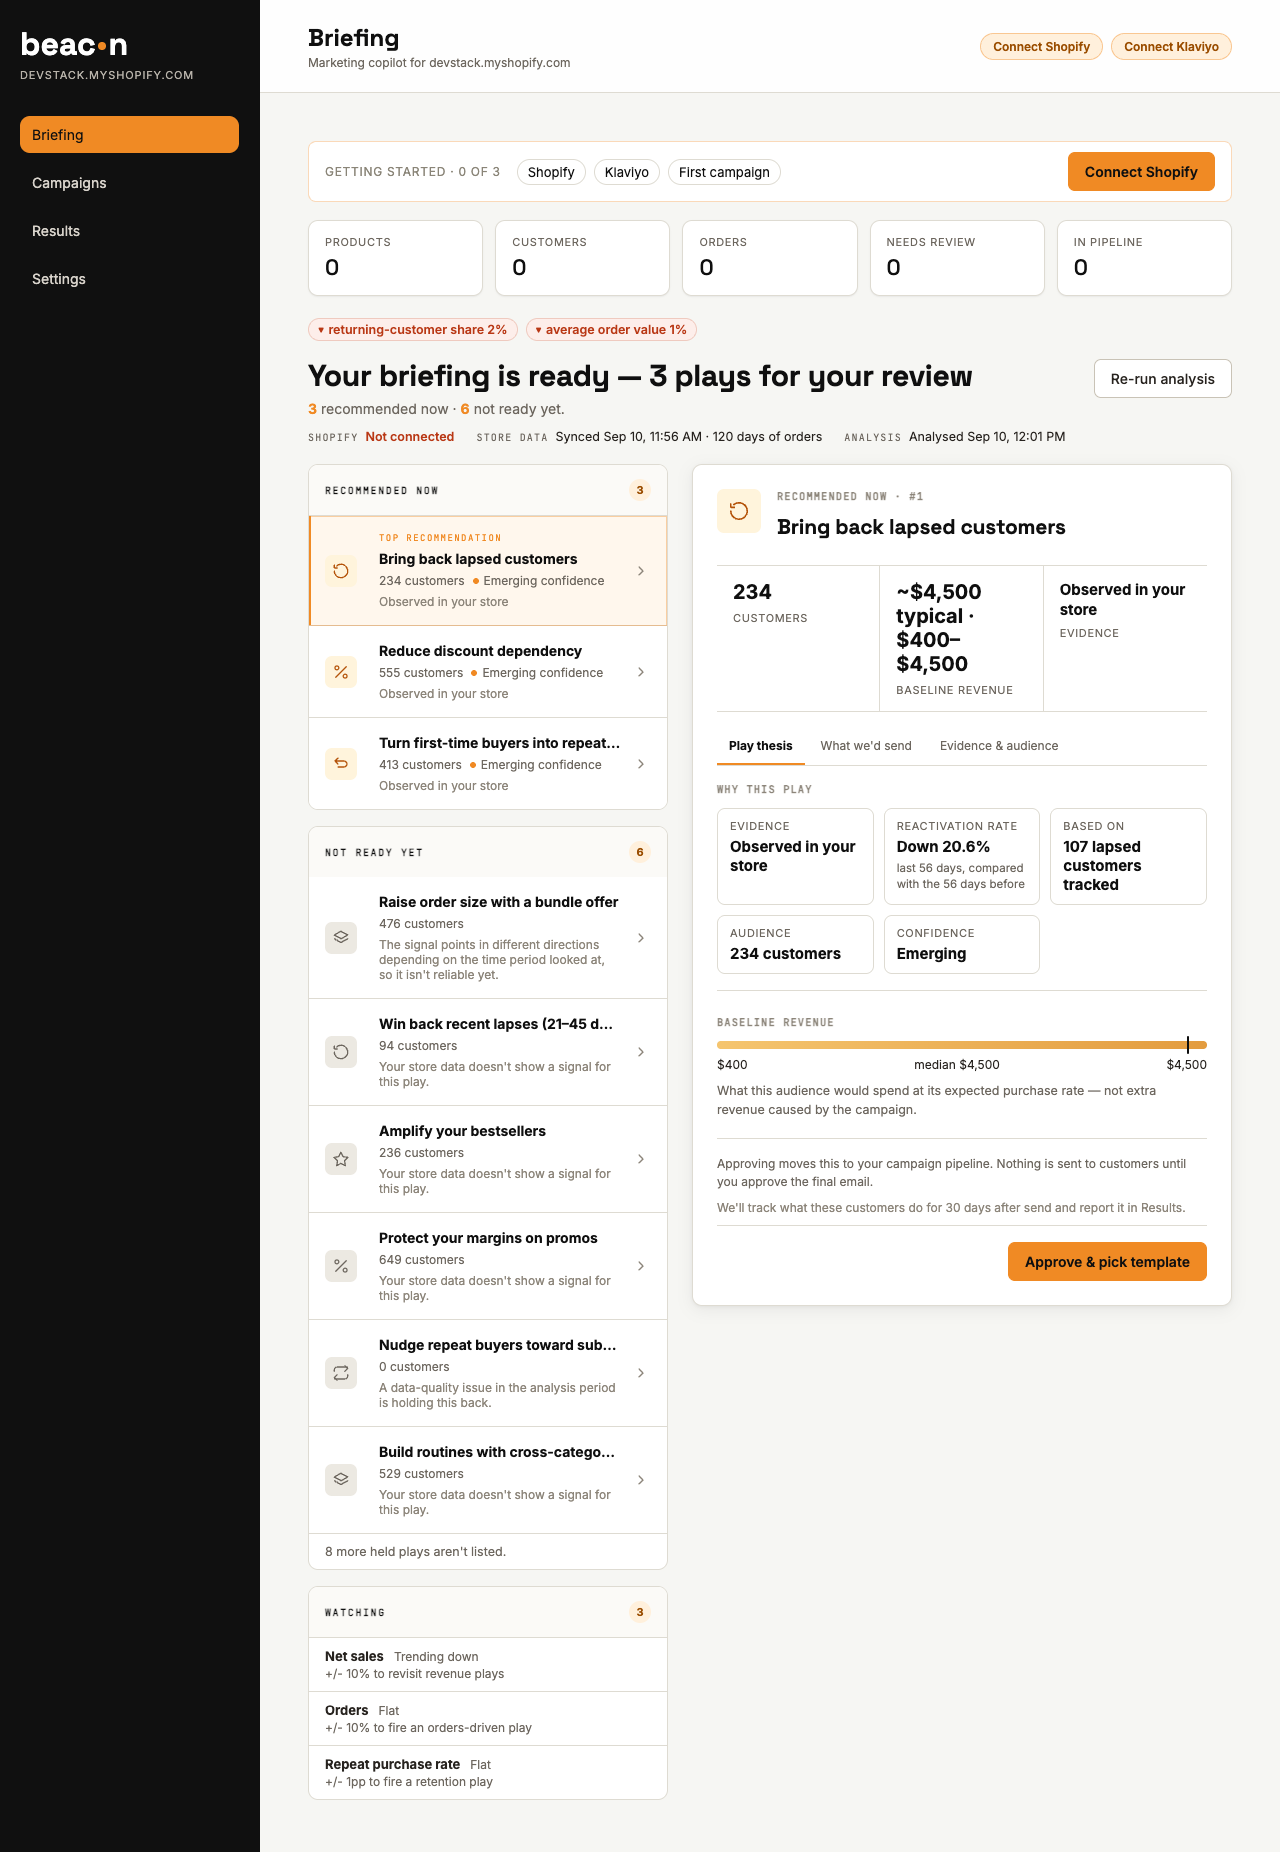
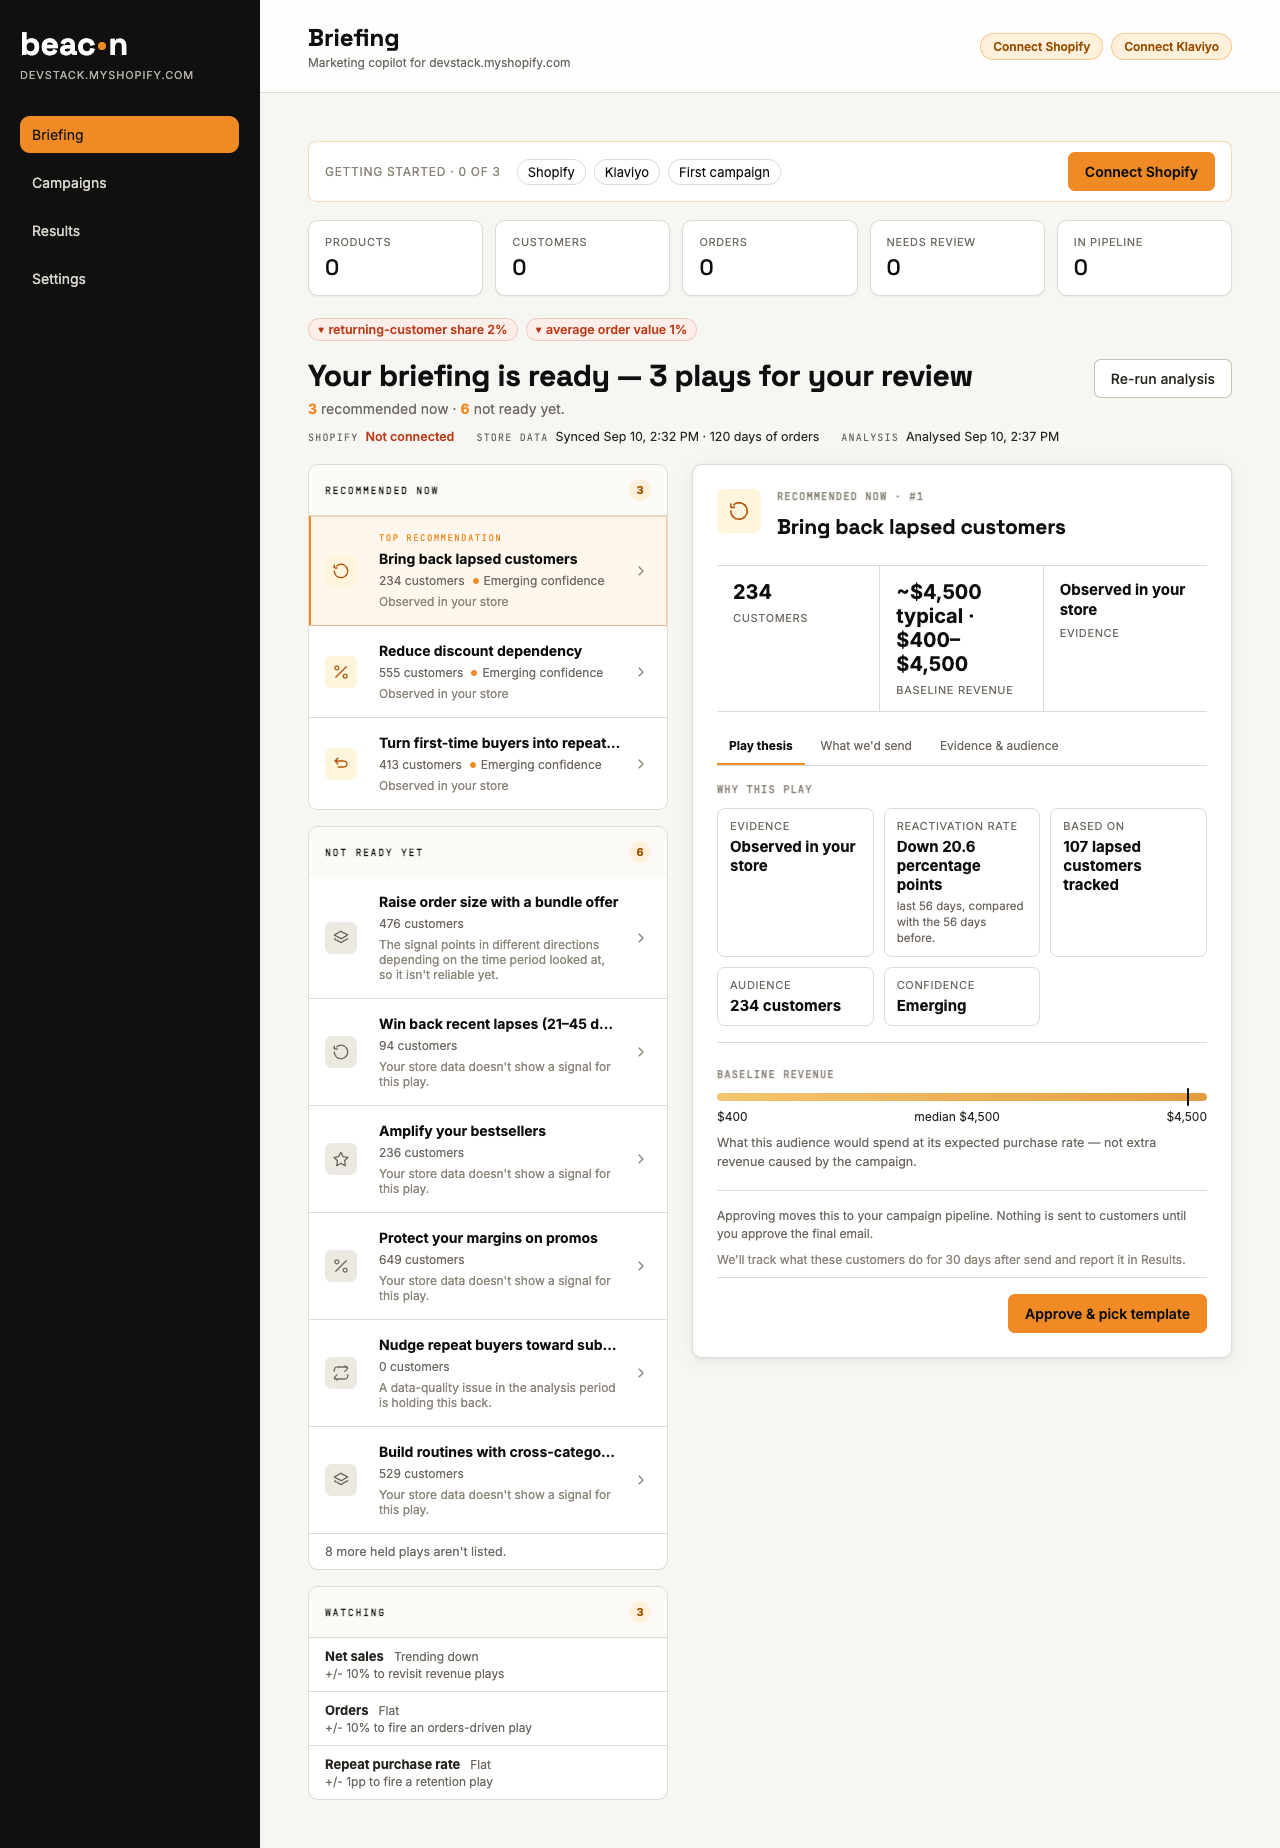
fix(briefing): report each measured change in the unit its builder produces
Two-proportion builders emit recent_rate - prior_rate, so a fall from the
reactivation rate reads "Down 20.6 percentage points", not "Down 20.6%". The
discount builder's rate is the share of revenue from heavy-discount customers
(a rise means more dependency), not a full-price purchase rate. The AOV-bundle
card carries the Welch difference in mean order value, in currency, not a
threshold-crossing rate. Aligned-window metrics stay relative percent. Any
metric without an established unit shows no change.

diff --git a/api/src/services/engineRunPresenter.js b/api/src/services/engineRunPresenter.js
@@ -297,8 +297,6 @@ function evidenceSourceDisplay(source) {
 const MEASUREMENT_METRIC_LABELS = {
   reactivation_rate: "Reactivation rate",
   first_to_second_conversion_rate: "Second-purchase rate",
-  discount_dependency_hygiene_full_price_conversion_rate: "Full-price purchase rate",
-  aov_threshold_crossing_conversion_rate: "Spend-threshold crossing rate",
   replenishment_conversion_rate: "Reorder rate",
   returning_customer_share: "Returning-customer share",
   repeat_rate_within_window: "Repeat purchase rate",
@@ -349,24 +347,59 @@ const SAMPLE_UNITS = {
   repeat_rate_within_window: "customers who ordered in the period",
 };
 
-function observedChange(measurement) {
-  const effect = Number(measurement?.observed_effect);
-  if (measurement?.observed_effect == null || !Number.isFinite(effect)) return null;
-  const pct = Math.round(effect * 1000) / 10;
+// What `observed_effect` IS, per metric. The builders do not share a unit, so
+// none is applied universally (engine/src/measurement_observed.py and the
+// builders in measurement_builder.py):
+//   - two-proportion builders emit recent_rate − prior_rate: a difference in
+//     PERCENTAGE POINTS, not a percent change. -0.2056 is "down 20.6 points".
+//   - the discount builder's rate is k/n with k = revenue from the heavy-discount
+//     cohort and n = all revenue: the SHARE OF REVENUE from heavy-discount
+//     customers. A rise means more dependency, not more full-price buying.
+//   - the AOV-bundle builder puts its Welch result on the card: the difference
+//     in mean order value, in CURRENCY. The metric name says threshold crossing;
+//     the number is not that.
+//   - the directional builder emits aligned[w].delta: a RELATIVE change.
+// A metric not listed shows no change at all rather than one in a guessed unit.
+const OBSERVED_CHANGE = {
+  reactivation_rate: { label: "Reactivation rate", unit: "percentage_points" },
+  replenishment_conversion_rate: { label: "Reorder rate", unit: "percentage_points" },
+  first_to_second_conversion_rate: { label: "Second-purchase rate", unit: "percentage_points" },
+  discount_dependency_hygiene_full_price_conversion_rate: {
+    label: "Share of revenue from heavy-discount customers",
+    unit: "percentage_points",
+    note: "A rise means more of your revenue is coming from customers who mostly buy on discount.",
+  },
+  aov_threshold_crossing_conversion_rate: { label: "Average order value", unit: "currency" },
+  returning_customer_share: { label: "Returning-customer share", unit: "percent" },
+  repeat_rate_within_window: { label: "Repeat purchase rate", unit: "percent" },
+};
+
+function observedChange(measurement, currency = null) {
+  if (measurement?.observed_effect == null) return null;
+  const effect = Number(measurement.observed_effect);
+  const spec = OBSERVED_CHANGE[measurement.metric];
+  if (!spec || !Number.isFinite(effect)) return null;
+  const value = spec.unit === "currency"
+    ? Math.round(effect * 100) / 100
+    // Points and percent are both stored as fractions (0.206 → 20.6).
+    : Math.round(effect * 1000) / 10;
   return {
-    metric: measurement.metric || null,
-    metric_label: metricLabel(measurement.metric),
-    change_pct: pct,
-    direction: pct > 0 ? "up" : pct < 0 ? "down" : "flat",
+    metric: measurement.metric,
+    metric_label: spec.label,
+    unit: spec.unit,
+    value,
+    currency: spec.unit === "currency" ? currency : null,
+    direction: value > 0 ? "up" : value < 0 ? "down" : "flat",
+    note: spec.note || null,
     window: windowDisplay(measurement.primary_window),
   };
 }
 
 function sampleFor(measurement) {
-  // No observed change means the builder filled `n` with the audience size,
+  // No observed effect means the builder filled `n` with the audience size,
   // which is already shown as the audience. Repeating it as a "sample" would
   // present one number as two pieces of evidence.
-  if (!observedChange(measurement)) return null;
+  if (measurement?.observed_effect == null) return null;
   const n = Number(measurement?.n);
   const unit = SAMPLE_UNITS[measurement?.metric];
   if (!unit || !Number.isFinite(n) || n <= 0) return null;
@@ -453,7 +486,7 @@ function evidenceFactsForCard(card, currency) {
     evidence_source: card.evidence_source || null,
     evidence_source_label: source.label,
     evidence_source_detail: source.detail,
-    observed_change: observedChange(card.measurement),
+    observed_change: observedChange(card.measurement, currency),
     sample: sampleFor(card.measurement),
     confidence_label: card.confidence_label || null,
     revenue_range: range,

diff --git a/api/tests/engineRunPresenter.test.js b/api/tests/engineRunPresenter.test.js
@@ -73,13 +73,65 @@ test("a missing or unknown source says so instead of guessing", () => {
 
 test("the observed change is the metric, its window and what it is compared with", () => {
   const facts = presentEngineRun(run()).recommendations[0].evidence_facts;
+  // The engine's two-proportion effect is recent_rate − prior_rate, so
+  // -0.205607 is a fall of 20.6 percentage points — not 20.6%.
   assert.deepEqual(facts.observed_change, {
     metric: "reactivation_rate",
     metric_label: "Reactivation rate",
-    change_pct: -20.6,
+    unit: "percentage_points",
+    value: -20.6,
+    currency: null,
     direction: "down",
+    note: null,
     window: { id: "L56", days: 56, label: "last 56 days", comparison: "compared with the 56 days before" },
   });
+});
+
+function changeFor(metric, observed_effect, options) {
+  return presentEngineRun(
+    run({ recommendations: [card({ measurement: { metric, observed_effect, n: 10, primary_window: "L28" } })] }),
+    null, null, options,
+  ).recommendations[0].evidence_facts.observed_change;
+}
+
+test("each builder's change is reported in the unit that builder produces", () => {
+  // Two-proportion builders: percentage points.
+  for (const metric of ["reactivation_rate", "replenishment_conversion_rate", "first_to_second_conversion_rate"]) {
+    assert.equal(changeFor(metric, 0.05).unit, "percentage_points", metric);
+  }
+
+  // The directional builder's aligned delta is a relative change.
+  const relative = changeFor("returning_customer_share", 0.062);
+  assert.equal(relative.unit, "percent");
+  assert.equal(relative.value, 6.2);
+
+  // An effect whose unit isn't established is not shown in a guessed one.
+  assert.equal(changeFor("conversion", 0.76), null);
+  assert.equal(changeFor("some_new_metric", 0.1), null);
+});
+
+test("the discount change is labelled as the heavy-discount revenue share it is", () => {
+  // The builder's rate is heavy-discount-cohort revenue over all revenue. It was
+  // labelled "Full-price purchase rate" — so a rise in discount dependency read
+  // as more full-price buying.
+  const change = changeFor("discount_dependency_hygiene_full_price_conversion_rate", 0.053333);
+  assert.equal(change.metric_label, "Share of revenue from heavy-discount customers");
+  assert.equal(change.unit, "percentage_points");
+  assert.equal(change.value, 5.3);
+  assert.equal(change.direction, "up");
+  assert.match(change.note, /more of your revenue is coming from customers who mostly buy on discount/);
+  assert.doesNotMatch(JSON.stringify(change), /full-price/i);
+});
+
+test("the AOV-bundle change is an average order value difference in the store's currency", () => {
+  // The value on the card is the Welch difference in mean order value. It was
+  // labelled "Spend-threshold crossing rate" and would have rendered as a percent.
+  const change = changeFor("aov_threshold_crossing_conversion_rate", -3.204, { currency: "CAD" });
+  assert.equal(change.metric_label, "Average order value");
+  assert.equal(change.unit, "currency");
+  assert.equal(change.value, -3.2);
+  assert.equal(change.currency, "CAD");
+  assert.doesNotMatch(change.metric_label, /threshold|crossing|rate/i);
 });
 
 test("a sample figure appears only where its unit is established", () => {
@@ -98,7 +150,7 @@ test("a sample figure appears only where its unit is established", () => {
     })],
   })).recommendations[0].evidence_facts;
   assert.equal(discount.sample, null, "a dollar total is not a sample size");
-  assert.equal(discount.observed_change.metric_label, "Full-price purchase rate");
+  assert.equal(discount.observed_change.metric_label, "Share of revenue from heavy-discount customers");
 
   const known = presentEngineRun(run({
     recommendations: [card({ measurement: { metric: "returning_customer_share", observed_effect: 0.06, n: 412, primary_window: "L28" } })],

diff --git a/web/tests/briefing.test.js b/web/tests/briefing.test.js
@@ -6,7 +6,7 @@ import React from "react";
 import { act, cleanup, fireEvent, render, screen } from "@testing-library/react";
 
 import {
-  briefingHeadline, dataStatusItems, evidenceChipItems, heldLaneEmptyText,
+  briefingHeadline, dataStatusItems, evidenceChipItems, formatChange, heldLaneEmptyText,
   holdsAreDataVolume, truncatedNote,
 } from "../src/briefingPresentation.js";
 
@@ -100,8 +100,21 @@ test("the briefing labels store evidence as the store's, with units and no lift 
   assert.doesNotMatch(text, /\bL56\b/, "windows are written out");
 
   assert.match(text, /Reactivation rate/);
-  assert.match(text, /Down 20\.6%/);
+  // A rate difference, in points. "Down 20.6%" was the reported misreading.
+  assert.match(text, /Down 20\.6 percentage points/);
+  assert.doesNotMatch(text, /Down 20\.6%/);
   assert.match(text, /last 56 days, compared with the 56 days before/);
+
+  // The discount play's change: the heavy-discount revenue share, in points,
+  // saying which direction is bad. It shows once that play is selected.
+  const discountRow = [...document.querySelectorAll("button.recommendation-row")]
+    .find((b) => b.textContent.includes("Reduce discount dependency"));
+  await act(async () => { fireEvent.click(discountRow); });
+  const selected = document.body.textContent;
+  assert.doesNotMatch(selected, /Full-price purchase rate/);
+  assert.match(selected, /Share of revenue from heavy-discount customers/);
+  assert.match(selected, /Up 5\.3 percentage points/);
+  assert.match(selected, /mostly buy on discount/);
   assert.match(text, /107 lapsed customers tracked/);
   assert.match(text, /Baseline revenue/);
 });
@@ -198,5 +211,19 @@ test("evidence items without a known unit are left out rather than guessed", () 
   const discount = presentedRun.recommendations.find((r) => r.play_id === "discount_dependency_hygiene");
   const labels = evidenceChipItems(discount, null).map((c) => c.label);
   assert.ok(!labels.includes("Based on"));
-  assert.ok(labels.includes("Full-price purchase rate"));
+  assert.ok(labels.includes("Share of revenue from heavy-discount customers"));
+});
+
+test("each change unit is written out as that unit, and an unknown one not at all", () => {
+  const window = { label: "last 28 days", comparison: "compared with the 28 days before" };
+  assert.equal(formatChange({ unit: "percentage_points", value: -20.6, direction: "down", window }).value, "Down 20.6 percentage points");
+  assert.equal(formatChange({ unit: "percentage_points", value: 1, direction: "up", window }).value, "Up 1 percentage point");
+  assert.equal(formatChange({ unit: "percent", value: 6.2, direction: "up", window }).value, "Up 6.2%");
+  assert.equal(formatChange({ unit: "currency", value: -3.2, currency: "USD", direction: "down", window }).value, "Down $3.20");
+  assert.equal(formatChange({ unit: "currency", value: 4, currency: "CAD", direction: "up", window }).value, "Up CAD 4.00");
+  assert.equal(formatChange({ unit: "something_else", value: 3, direction: "up", window }), null);
+  assert.equal(
+    formatChange({ unit: "percentage_points", value: 5.3, direction: "up", window, note: "A rise means more." }).note,
+    "last 28 days, compared with the 28 days before. A rise means more.",
+  );
 });

diff --git a/web/src/briefingPresentation.js b/web/src/briefingPresentation.js
@@ -98,14 +98,32 @@ function titleCase(value) {
   return String(value).replaceAll("_", " ").replace(/\b\w/g, (c) => c.toUpperCase());
 }
 
+// The presenter says which unit each change is in; this only writes it out.
+// A difference between two rates is percentage points, never "%" — "down 20.6%"
+// for a rate that fell from 40% to 19.4% overstates nothing but misstates what
+// moved. An unknown unit renders nothing.
+function changeAmount(change) {
+  const magnitude = Math.abs(change.value);
+  const oneDecimal = magnitude.toLocaleString("en-US", { maximumFractionDigits: 1 });
+  if (change.unit === "percentage_points") return `${oneDecimal} percentage ${magnitude === 1 ? "point" : "points"}`;
+  if (change.unit === "percent") return `${oneDecimal}%`;
+  if (change.unit === "currency") {
+    const prefix = !change.currency || change.currency === "USD" ? "$" : `${change.currency} `;
+    return `${prefix}${magnitude.toLocaleString("en-US", { minimumFractionDigits: 2, maximumFractionDigits: 2 })}`;
+  }
+  return null;
+}
+
 export function formatChange(change) {
-  if (!change) return null;
-  const magnitude = Math.abs(change.change_pct).toLocaleString("en-US", { maximumFractionDigits: 1 });
-  const value = change.direction === "flat" ? "No change" : `${change.direction === "up" ? "Up" : "Down"} ${magnitude}%`;
+  if (!change || !Number.isFinite(change.value)) return null;
+  const amount = changeAmount(change);
+  if (!amount) return null;
+  const value = change.direction === "flat" ? "No change" : `${change.direction === "up" ? "Up" : "Down"} ${amount}`;
+  const windowText = change.window ? `${change.window.label}, ${change.window.comparison}.` : null;
   return {
     label: change.metric_label || "Store metric",
     value,
-    note: change.window ? `${change.window.label}, ${change.window.comparison}` : null,
+    note: [windowText, change.note].filter(Boolean).join(" ") || null,
   };
 }
 

diff --git a/IMPLEMENTATION_PLAN.md b/IMPLEMENTATION_PLAN.md
@@ -161,7 +161,7 @@ Repair clipping and unreadable metric text at 1440/1280/1024/990px; ensure the p
 **Status: implemented; PR open for review.** No engine thresholds or models changed.
 
 - *Evidence source.* All four `EvidenceSourceChip` values are mapped explicitly, and a missing or unknown one reads "Evidence source not recorded". Before this, everything other than `STORE_MEASURED` was labelled "Modeled from similar stores", so every current recommendation — all `STORE_OBSERVED`, built from the store's own data — claimed to come from other stores.
-- *Units.* A measurement is shown as the metric, its direction, and its window with the comparison — for example "Reactivation rate · Down 20.6% · last 56 days, compared with the 56 days before" — never as "Observed effect" or "L56". A sample figure appears only where the engine code establishes its unit: the lapsed cohort (reactivation), customers due to reorder (replenishment), first-time buyers (first-to-second), and identified customers (aligned-window metrics). "Orders analyzed" was wrong for every metric.
+- *Units.* A measurement is shown as the metric, its direction, and its window with the comparison — for example "Reactivation rate · Down 20.6 percentage points · last 56 days, compared with the 56 days before" — never as "Observed effect" or "L56". The builders do not share a unit, so each metric is mapped to the one its builder produces: two-proportion builders emit a rate difference (percentage points); the discount builder's rate is the share of revenue from heavy-discount customers, so a rise means more dependency; the AOV-bundle card carries the difference in mean order value (currency), not a threshold-crossing rate; the directional builder emits a relative change (percent). A metric not mapped shows no change. A sample figure appears only where the engine code establishes its unit: the lapsed cohort (reactivation), customers due to reorder (replenishment), first-time buyers (first-to-second), and identified customers (aligned-window metrics). "Orders analyzed" was wrong for every metric.
 - *Revenue.* A dollar figure appears only for a non-suppressed `BLEND` range (DS lock 8), labelled "Baseline revenue" with what it means: what the audience would spend at its expected purchase rate, not extra revenue caused by the campaign (DS lock 2). "Est. opportunity" and "Estimated upside" are removed. The currency comes from the shop record instead of being assumed USD.
 - *Priority.* The engine's rank drives "Top recommendation" and "#n". Selecting a row only marks it selected (`aria-pressed`); before, selection relabelled the clicked row "Primary".
 - *Held and empty states.* All 18 `ReasonCode` values are translated, each with a category, and each held row shows its reason. Only data-volume holds say more orders will help, and an unrecognised code says it is unrecognised. The count of held plays the engine left off the list is shown, the watching signals are shown, and each soft or hard abstain mode has its own headline. "Everything BeaconAI considered this run was strong enough to recommend" is gone — it appeared even when nothing was recommended.
